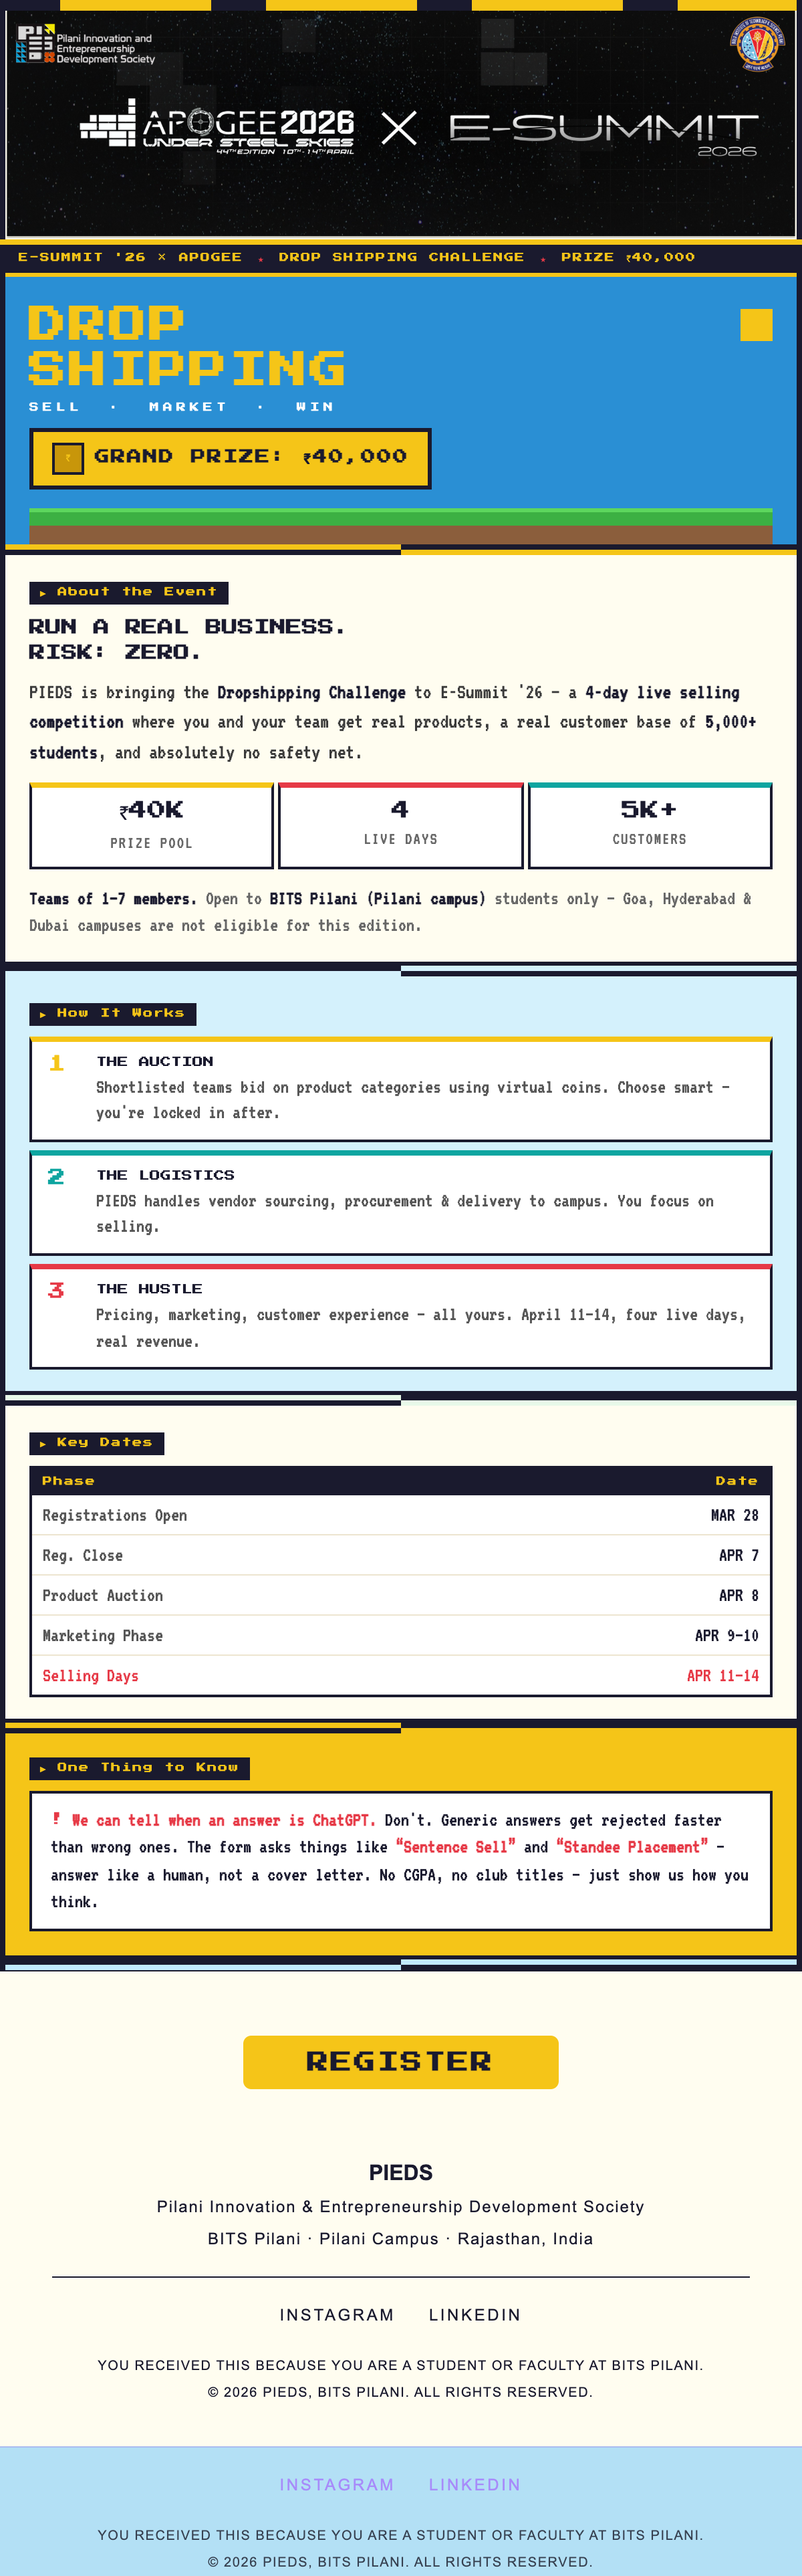
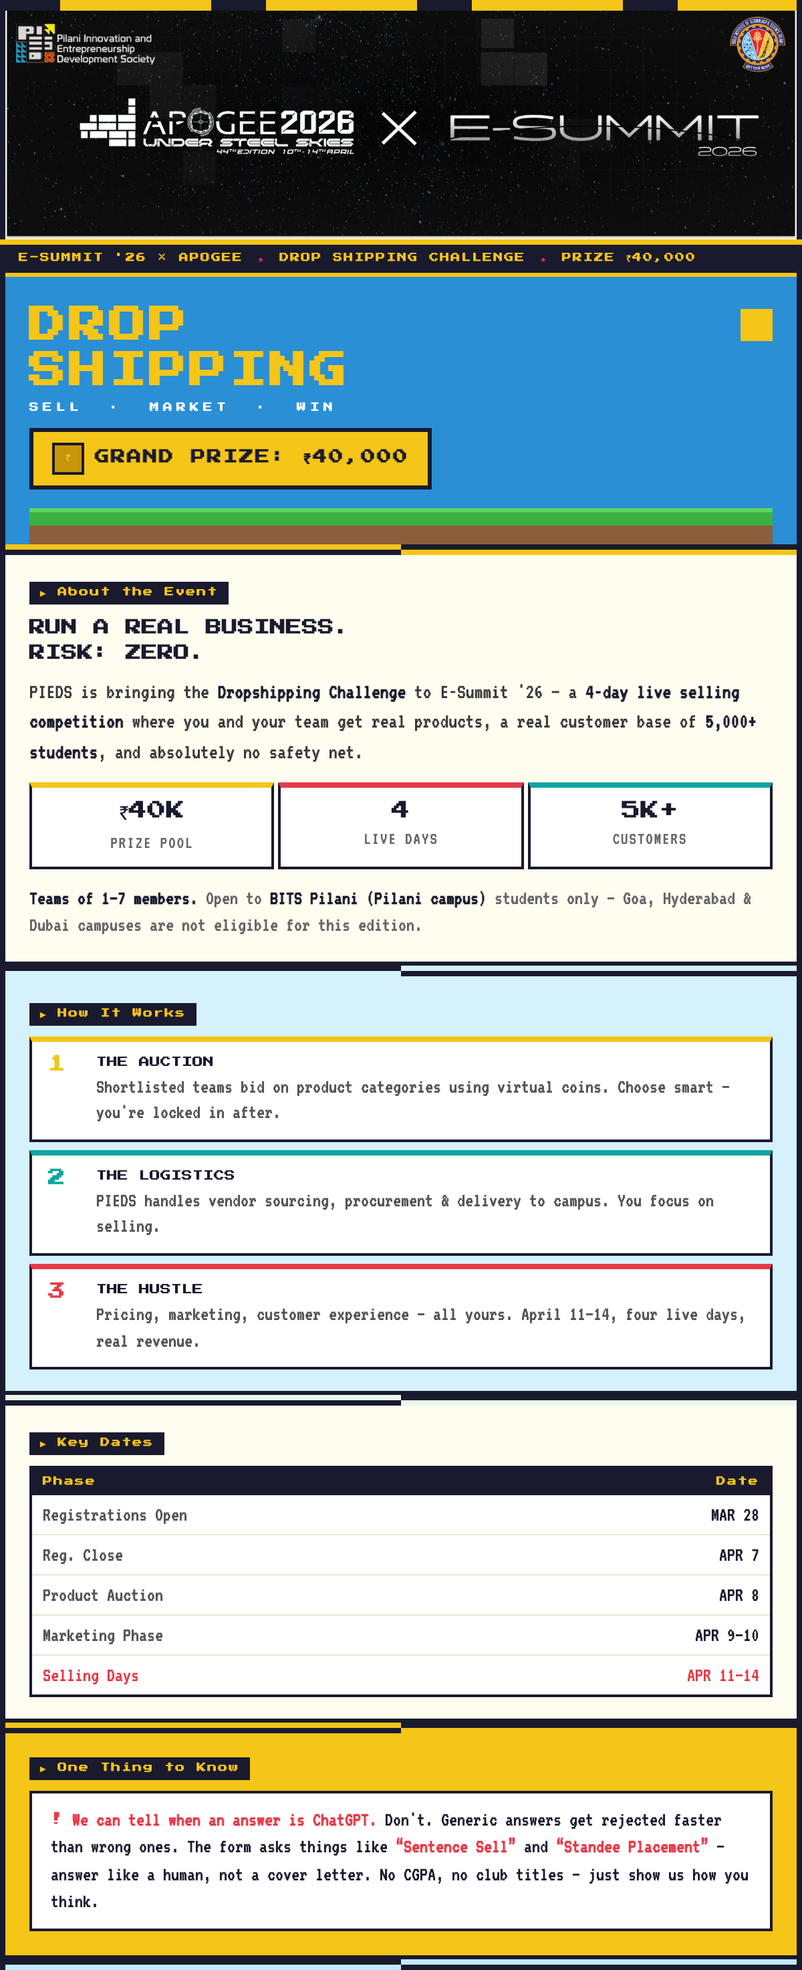
Remove CTA/footer from rendered image; move to wrapper HTML

diff --git a/dropshipping/dropshipping-wrapper.html b/dropshipping/dropshipping-wrapper.html
@@ -6,41 +6,76 @@
   <title>Dropshipping Challenge – Register Now</title>
 </head>
 <body style="margin:0;padding:0;background-color:#b3e0f5;font-family:Arial,sans-serif;">
+
   <!-- Preheader (hidden) -->
   <div style="display:none;max-height:0;overflow:hidden;mso-hide:all;">
-    Join the Dropshipping Challenge at E‑Summit ’26 × APOGEE – win prizes, build a business, and showcase your skills. Register now!
-    &nbsp;·&nbsp;·&nbsp;·&nbsp;·&nbsp;·
+    Join the Dropshipping Challenge at E‑Summit '26 × APOGEE – win ₹40,000, run a real business for 4 days. Register now!
+    &nbsp;&zwnj;&nbsp;&zwnj;&nbsp;&zwnj;&nbsp;&zwnj;&nbsp;&zwnj;
   </div>
 
   <!-- Wrapper table -->
   <table width="100%" cellpadding="0" cellspacing="0" border="0" style="background-color:#b3e0f5;">
     <tr>
       <td align="center" style="padding:0;">
+
         <!-- Main image embed -->
         <img src="https://raw.githubusercontent.com/SrijanSahay05/dihadi-assets/main/assets/dropshipping/email_render.png"
-          alt="Dropshipping Challenge – E‑Summit ’26 × APOGEE – prize pool ₹40,000, 4 live days, register now"
-          width="672"
-          style="display:block;width:100%;height:auto;border:0;">
+          alt="Dropshipping Challenge – E‑Summit '26 × APOGEE – prize pool ₹40,000, 4 live selling days, open to BITS Pilani Pilani campus students, teams of 1–7. Registrations open Mar 28, close Apr 7. Product auction Apr 8, selling days Apr 11–14."
+          width="600"
+          style="display:block;width:100%;max-width:600px;height:auto;border:0;">
 
-        <!-- Fallback CTA -->
-        <table width="100%" cellpadding="0" cellspacing="0" border="0" style="max-width:672px;margin:0 auto;">
+        <!-- CTA + Footer block -->
+        <table width="100%" cellpadding="0" cellspacing="0" border="0" style="max-width:600px;margin:0 auto;background-color:#fffdf0;border-left:4px solid #1a1a2e;border-right:4px solid #1a1a2e;">
+
+          <!-- CTA button -->
           <tr>
-            <td align="center" style="padding:18px 0 8px;">
+            <td align="center" style="padding:32px 24px 20px;border-top:3px solid #1a1a2e;">
               <a href="https://example.com/register" target="_blank"
-                style="display:inline-block;padding:12px 48px;background-color:#f5c518;color:#1a1a2e;font-family:Arial,sans-serif;font-size:16px;font-weight:bold;letter-spacing:1.5px;text-transform:uppercase;text-decoration:none;border-radius:6px;">
-                REGISTER →
+                style="display:inline-block;padding:12px 48px;background-color:#f5c518;color:#1a1a2e;font-family:'Courier New',Courier,monospace;font-size:14px;font-weight:bold;letter-spacing:1.5px;text-transform:uppercase;text-decoration:none;border:3px solid #1a1a2e;">
+                REGISTER NOW
               </a>
             </td>
           </tr>
+
+          <!-- Footer: PIEDS brand -->
           <tr>
-            <td align="center" style="padding:6px 0 0;font-family:Arial,sans-serif;font-size:11px;color:#888888;">
-              Having trouble viewing? <a href="https://example.com/register" style="color:#888888;">Click here</a>
+            <td align="center" style="padding:4px 24px 12px;">
+              <div style="font-family:Arial,Helvetica,sans-serif;font-size:15px;font-weight:800;color:#1a1a2e;margin-bottom:4px;">PIEDS</div>
+              <div style="font-family:Arial,Helvetica,sans-serif;font-size:11px;font-weight:300;letter-spacing:0.08em;color:#1a1a2e;line-height:2;">
+                Pilani Innovation &amp; Entrepreneurship Development Society<br>
+                BITS Pilani &middot; Pilani Campus &middot; Rajasthan, India
+              </div>
             </td>
           </tr>
+
+          <!-- Footer: social links -->
+          <tr>
+            <td align="center" style="padding:10px 24px;border-top:1px solid #1a1a2e;">
+              <a href="https://www.instagram.com/pieds_bitspilani?utm_source=ig_web_button_share_sheet&igsh=ZDNlZDc0MzIxNw==" target="_blank"
+                style="font-family:Arial,Helvetica,sans-serif;font-size:11px;font-weight:500;letter-spacing:0.15em;color:#1a1a2e;text-decoration:none;text-transform:uppercase;margin:0 14px;">Instagram</a>
+              <a href="https://www.linkedin.com/company/pilani-innovation-entrepreneurship-development-society-pieds-bits-pilani/posts/?feedView=all" target="_blank"
+                style="font-family:Arial,Helvetica,sans-serif;font-size:11px;font-weight:500;letter-spacing:0.15em;color:#1a1a2e;text-decoration:none;text-transform:uppercase;margin:0 14px;">LinkedIn</a>
+            </td>
+          </tr>
+
+          <!-- Footer: legal -->
+          <tr>
+            <td align="center" style="padding:8px 24px 20px;">
+              <div style="font-family:Arial,Helvetica,sans-serif;font-size:10px;font-weight:300;letter-spacing:0.08em;color:#888888;text-transform:uppercase;line-height:2;">
+                You received this because you are a student or faculty at BITS Pilani.<br>
+                &copy; 2026 PIEDS, BITS Pilani. All rights reserved.
+              </div>
+              <div style="margin-top:6px;font-family:Arial,Helvetica,sans-serif;font-size:10px;color:#888888;">
+                Having trouble viewing? <a href="https://example.com/register" style="color:#888888;">Click here</a>
+              </div>
+            </td>
+          </tr>
+
         </table>
 
       </td>
     </tr>
   </table>
+
 </body>
 </html>

diff --git a/dropshipping/dropshipping.html b/dropshipping/dropshipping.html
@@ -347,68 +347,6 @@ img{border:0;outline:none;-ms-interpolation-mode:bicubic;}
           </td>
         </tr>
 
-<!-- ===== CTA SECTION ===== -->
-<table width="100%" border="0" cellpadding="0" cellspacing="0" role="presentation" style="max-width:600px;margin:auto;">
-  <tr>
-    <td align="center" style="padding:8% 6.5% 4%;background-color:#fffdf0;border-top:1px solid #1a1a2e;">
-      <!-- Register Button -->
-      <a href="#" class="btn-primary" style="display:inline-block;padding:12px 48px;background-color:#f5c518;color:#1a1a2e;font-family:'Press Start 2P','Courier New',Courier,monospace;font-size:16px;font-weight:bold;letter-spacing:1.5px;text-transform:uppercase;text-decoration:none;border-radius:6px;">REGISTER</a>
-    </td>
-  </tr>
-  <tr>
-    <td class="footer-pad" style="background-color:#fffdf0;padding:5% 6.5%;" >
-      <table width="100%" border="0" cellpadding="0" cellspacing="0" role="presentation">
-        <tr><td align="center" style="padding-bottom:16px;">
-          <div class="pc-font-alt footer-brand" style="font-family:'Fira Sans',Arial,Helvetica,sans-serif;font-size:1em;font-weight:800;color:#1a1a2e;margin-bottom:0.25em;">PIEDS</div>
-          <div class="pc-font-alt footer-text" style="font-family:'Fira Sans',Arial,Helvetica,sans-serif;font-size:0.75em;font-weight:300;letter-spacing:0.08em;color:#1a1a2e;line-height:2;">
-            Pilani Innovation &amp; Entrepreneurship Development Society<br/>
-            BITS Pilani · Pilani Campus · Rajasthan, India
-          </div>
-        </td></tr>
-      </table>
-      <table class="footer-social" width="100%" border="0" cellpadding="0" cellspacing="0" role="presentation">
-        <tr><td align="center" style="border-top:1px solid #1a1a2e;padding-top:1.125em;">
-          <a class="social-link" href="https://www.instagram.com/pieds_bitspilani?utm_source=ig_web_button_share_sheet&amp;igsh=ZDNlZDc0MzIxNw==" target="_blank" style="font-family:'Fira Sans',Arial,Helvetica,sans-serif;font-size:0.75em;font-weight:500;letter-spacing:0.15em;color:#1a1a2e;text-decoration:none;text-transform:uppercase;margin:0 0.875em;transition:color 0.2s;">Instagram</a>
-          <a class="social-link" href="https://www.linkedin.com/company/pilani-innovation-entrepreneurship-development-society-pieds-bits-pilani/posts/?feedView=all" target="_blank" style="font-family:'Fira Sans',Arial,Helvetica,sans-serif;font-size:0.75em;font-weight:500;letter-spacing:0.15em;color:#1a1a2e;text-decoration:none;text-transform:uppercase;margin:0 0.875em;transition:color 0.2s;">LinkedIn</a>
-        </td></tr>
-      </table>
-      <div style="height:1.25em;"></div>
-      <table width="100%" border="0" cellpadding="0" cellspacing="0" role="presentation">
-        <tr><td align="center">
-          <div class="pc-font-alt footer-text" style="font-family:'Fira Sans',Arial,Helvetica,sans-serif;font-size:0.625em;font-weight:300;letter-spacing:0.08em;color:#1a1a2e;text-transform:uppercase;line-height:2;">
-            You received this because you are a student or faculty at BITS Pilani.<br/>
-            &copy; 2026 PIEDS, BITS Pilani. All rights reserved.
-          </div>
-        </td></tr>
-      </table>
-    </td>
-  </tr>
-</table>
-
-    <table class="footer-social" width="100%" border="0" cellpadding="0" cellspacing="0" role="presentation">
-    <tr><td align="center" style="border-top:1px solid rgba(138,43,226,0.2);padding-top:1.125em;">
-      <a class="social-link" href="https://www.instagram.com/pieds_bitspilani?utm_source=ig_web_button_share_sheet&igsh=ZDNlZDc0MzIxNw==" target="_blank"
-        style="font-family:'Fira Sans',Arial,Helvetica,sans-serif;font-size:0.75em;font-weight:500;letter-spacing:0.15em;color:#a78bfa;text-decoration:none;text-transform:uppercase;margin:0 0.875em;transition:color 0.2s;">Instagram</a>
-      <a class="social-link" href="https://www.linkedin.com/company/pilani-innovation-entrepreneurship-development-society-pieds-bits-pilani/posts/?feedView=all" target="_blank"
-        style="font-family:'Fira Sans',Arial,Helvetica,sans-serif;font-size:0.75em;font-weight:500;letter-spacing:0.15em;color:#a78bfa;text-decoration:none;text-transform:uppercase;margin:0 0.875em;transition:color 0.2s;">LinkedIn</a>
-    </td></tr>
-    </table>
-
-    <div style="height:1.25em;"></div>
-
-    <table width="100%" border="0" cellpadding="0" cellspacing="0" role="presentation">
-    <tr><td align="center">
-      <div class="pc-font-alt footer-text" style="font-family:'Fira Sans',Arial,Helvetica,sans-serif;font-size:0.625em;font-weight:300;letter-spacing:0.08em;color:#374151;text-transform:uppercase;line-height:2;">
-        You received this because you are a student or faculty at BITS Pilani.<br/>
-        &copy; 2026 PIEDS, BITS Pilani. All rights reserved.
-      </div>
-    </td></tr>
-    </table>
-
-  </td>
-</tr>
-</table>
-
       </table>
       <!--[if mso]></td></tr></table><![endif]-->
     </td>
